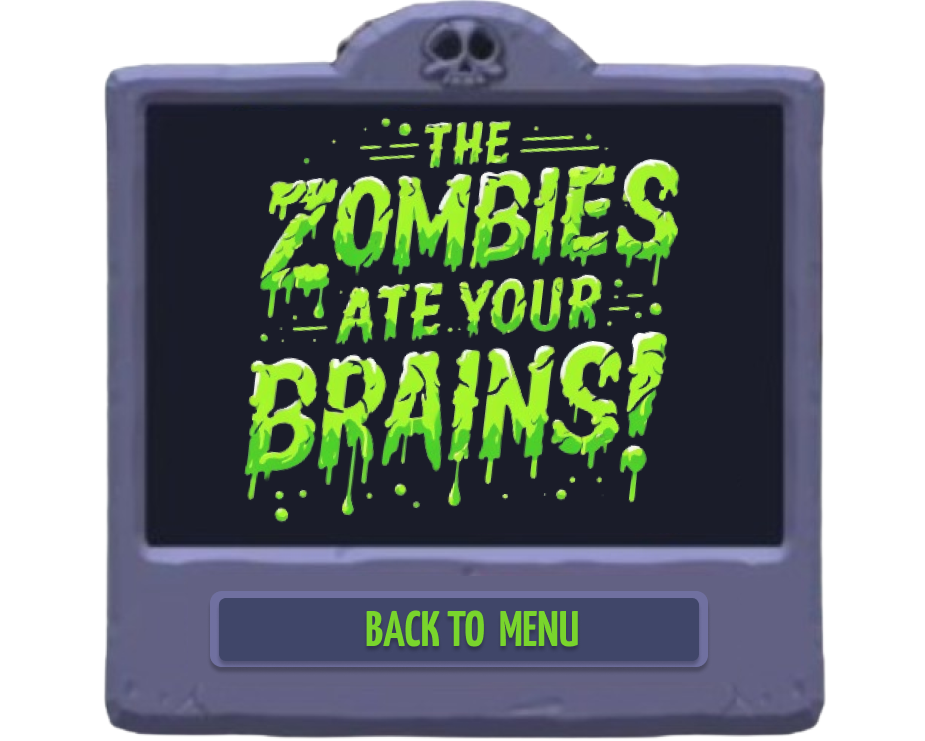
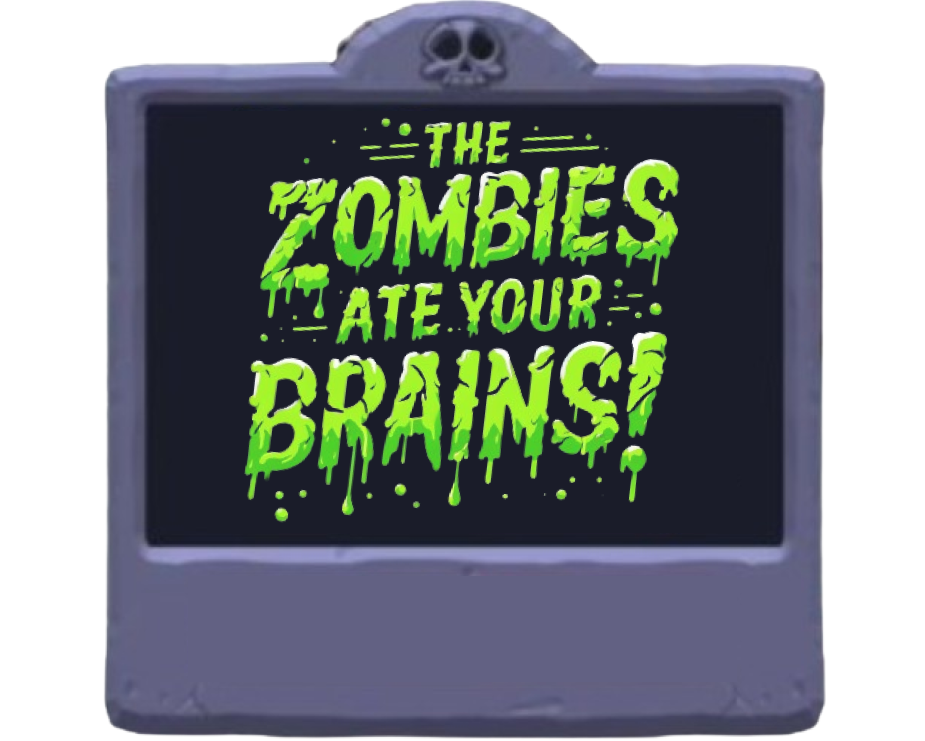
update: button

Changed region(s): [[0.2119, 0.776, 0.787, 0.9312]]

diff --git a/src/Game/GameFrem.java b/src/Game/GameFrem.java
@@ -297,8 +297,26 @@ public class GameFrem extends JFrame {
             Image image = imageIcon.getImage().getScaledInstance(screenWidth, screenHeight, Image.SCALE_SMOOTH);
             JLabel loseimage = new JLabel(new ImageIcon(image));
             loseimage.setBounds(0, 0, image.getWidth(loseimage), image.getHeight(loseimage));
-            layeredPane.add(loseimage, Integer.valueOf(2));
+            layeredPane.add(loseimage, Integer.valueOf(3));
             gameManager.stopTimer();
+
+            JButton loseButton = new JButton();
+            loseButton.setIcon(PictureFactory.getImageIcon(Picture.LOSE));
+            loseButton.setOpaque(false);
+            loseButton.setContentAreaFilled(false);
+            loseButton.setBorder(null);
+            loseButton.setSize(530, 75);
+            loseButton.setLocation((1240 - 650) / 2,635);
+            loseButton.setMargin(new Insets(0, 0, 0, 0));
+
+            loseButton.addActionListener(new ActionListener() {
+                public void actionPerformed(ActionEvent e) {
+                    WelcomingFrame frame = new WelcomingFrame();
+                    frame.setVisible(true);
+                    dispose();
+                }
+            });
+
         } else if (condition == 2) {
             // win
             System.out.println("CONGRATULATIONS! YOU WIN");
@@ -306,8 +324,26 @@ public class GameFrem extends JFrame {
             Image image = imageIcon.getImage().getScaledInstance(screenWidth, screenHeight, Image.SCALE_SMOOTH);
             JLabel winimage = new JLabel(new ImageIcon(image));
             winimage.setBounds(0, 0, image.getWidth(winimage), image.getHeight(winimage));
-            layeredPane.add(winimage, Integer.valueOf(2));
+            layeredPane.add(winimage, Integer.valueOf(3));
             gameManager.stopTimer();
+
+            JButton winButton = new JButton();
+            winButton.setIcon(PictureFactory.getImageIcon(Picture.WIN));
+            winButton.setOpaque(false);
+            winButton.setContentAreaFilled(false);
+            winButton.setBorder(null);
+            winButton.setSize(530, 75);
+            winButton.setLocation((1240 - 650) / 2,635);
+            winButton.setMargin(new Insets(0, 0, 0, 0));
+
+            winButton.addActionListener(new ActionListener() {
+                public void actionPerformed(ActionEvent e) {
+                    WelcomingFrame frame = new WelcomingFrame();
+                    frame.setVisible(true);
+                    dispose();
+                }
+            });
+
         }
         repaint();
     }

diff --git a/src/Picture/PictureFactory.java b/src/Picture/PictureFactory.java
@@ -124,6 +124,12 @@ public class PictureFactory {
             case FLAG:
                 imageIcon = new ImageIcon("ImagePvZ/GameFrame/flag.png");
                 break;
+            case WIN:
+                imageIcon = new ImageIcon("ImagePvZ/GameFrame/BackToMenuWin.png");
+                break;
+            case LOSE:
+                imageIcon = new ImageIcon("ImagePvZ/GameFrame/BackToMenuLose.png");
+                break;
 
             // Plants List
             case SUNFLOWERLIST:

diff --git a/src/Picture/Picture.java b/src/Picture/Picture.java
@@ -59,6 +59,8 @@ public enum Picture {
     GAMEDAY,
     GAMENIGHT,
     FLAG,
+    LOSE,
+    WIN,
 
     // Plants List
     SUNFLOWERLIST,
